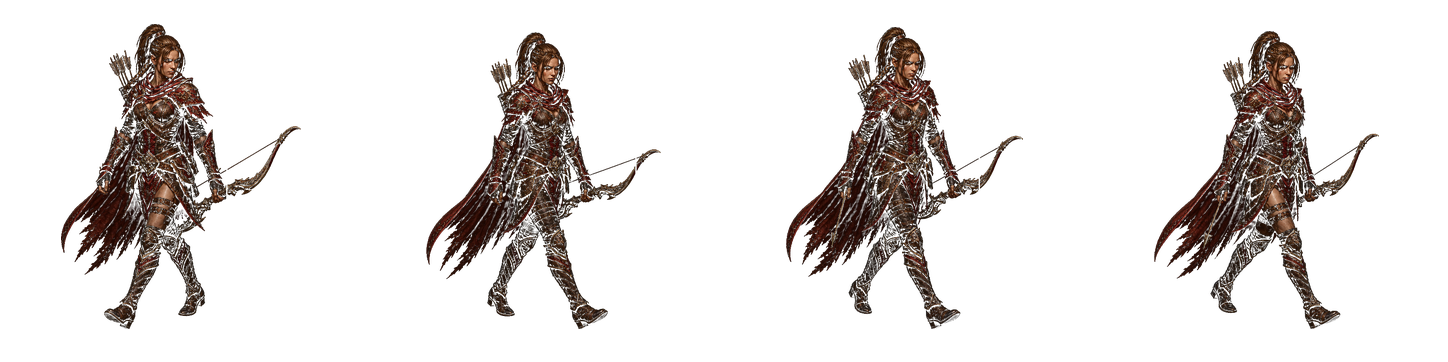
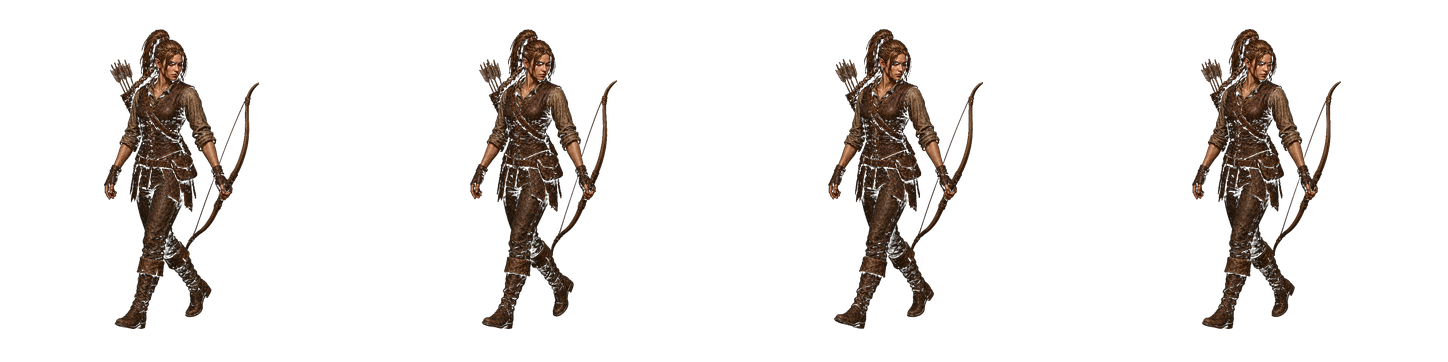
feat: 궁수 기본 외형을 승인된 스타터 가죽 튜닉 시트로 교체 (작업 159) (#124)
후드 망토 차림(작업 157)을 승인 시안 male/female_starter.png 기반 걷기·활 사격 4프레임으로 다시 만들어 6장을 재생성했다. /assets/* immutable 캐시라 궁수 시트 URL 6경로에 ?v=2를 붙이고, 캐시 버스터 누락을 잡는 테스트를 추가했다. heroBodyPx·전투·Save/DB/API 계약 무변경.

diff --git a/src/game/render.ts b/src/game/render.ts
@@ -21,8 +21,9 @@ import type { Gender } from './store';
 const paths = {
   floor: '/assets/wasteland-ground.png', terrainProps: '/assets/wasteland-props.png', male: '/assets/warrior_male_base.png',
   pilotMale: '/assets/pilot-25d/warrior_male_idle_v1.png', pilotFemale: '/assets/pilot-25d/warrior_female_idle_v1.png',
-  // 궁수 기본 시트(작업 157) — 같은 362px 셀 좌표계다. 갑옷·투구·활 오버레이는 이번 단계에 없다.
-  archerMale: '/assets/pilot-25d/archer_male_idle_v1.png', archerFemale: '/assets/pilot-25d/archer_female_idle_v1.png',
+  // 궁수 기본 시트(작업 157 → 159 스타터 가죽 튜닉) — 같은 362px 셀 좌표계다. 갑옷·투구·활 오버레이는 이번 단계에 없다.
+  // `/assets/*`는 immutable 캐시라 시트를 갈면 URL을 바꿔야 브라우저가 즉시 새 그림을 받는다(작업 159).
+  archerMale: '/assets/pilot-25d/archer_male_idle_v1.png?v=2', archerFemale: '/assets/pilot-25d/archer_female_idle_v1.png?v=2',
   // 투구 착용 시에만 쓰는 머리 없는 본체(작업 152) — 같은 셀 좌표계라 배율·앵커를 공유한다.
   pilotMaleHeadless: headlessBodyPaths.male.idle, pilotFemaleHeadless: headlessBodyPaths.female.idle,
   female: '/assets/warrior_female_base.png', armored: '/assets/warrior_armored_swordless.png',
@@ -53,8 +54,8 @@ const animationPaths = {
 const attackSheets = {
   pilotMaleAttack: '/assets/pilot-25d/warrior_male_attack_v1.png',
   pilotFemaleAttack: '/assets/pilot-25d/warrior_female_attack_v1.png',
-  archerMaleAttack: '/assets/pilot-25d/archer_male_attack_v1.png',
-  archerFemaleAttack: '/assets/pilot-25d/archer_female_attack_v1.png',
+  archerMaleAttack: '/assets/pilot-25d/archer_male_attack_v1.png?v=2',
+  archerFemaleAttack: '/assets/pilot-25d/archer_female_attack_v1.png?v=2',
   pilotMaleAttackHeadless: headlessBodyPaths.male.attack,
   pilotFemaleAttackHeadless: headlessBodyPaths.female.attack,
   femaleArmoredNoHelmAttack: '/assets/warrior_female_armored_attack.png?v=3',
@@ -67,8 +68,8 @@ const attackSheets = {
 const walkSheets = {
   pilotMaleWalk: '/assets/pilot-25d/warrior_male_walk_v1.png',
   pilotFemaleWalk: '/assets/pilot-25d/warrior_female_walk_v1.png',
-  archerMaleWalk: '/assets/pilot-25d/archer_male_walk_v1.png',
-  archerFemaleWalk: '/assets/pilot-25d/archer_female_walk_v1.png',
+  archerMaleWalk: '/assets/pilot-25d/archer_male_walk_v1.png?v=2',
+  archerFemaleWalk: '/assets/pilot-25d/archer_female_walk_v1.png?v=2',
   pilotMaleWalkHeadless: headlessBodyPaths.male.walk,
   pilotFemaleWalkHeadless: headlessBodyPaths.female.walk,
   maleBaseWalk: '/assets/walk8_male_base.png', femaleBaseWalk: '/assets/walk8_female_base.png',

diff --git a/src/ui/modals/charactersModal.ts b/src/ui/modals/charactersModal.ts
@@ -34,7 +34,7 @@ export function renderCharacters(ui: Interface, dialog: HTMLElement): void {
     });
     select.className = 'character-select';
     const image = document.createElement('img'); image.alt = '';
-    image.src = character ? (character.job === 'archer' ? `/assets/pilot-25d/archer_${character.gender === 'female' ? 'female' : 'male'}_idle_v1.png` : `/assets/warrior_${character.gender === 'female' ? 'female' : 'male'}_base.png`) : '';
+    image.src = character ? (character.job === 'archer' ? `/assets/pilot-25d/archer_${character.gender === 'female' ? 'female' : 'male'}_idle_v1.png?v=2` : `/assets/warrior_${character.gender === 'female' ? 'female' : 'male'}_base.png`) : '';
     const details = document.createElement('span'); details.textContent = character ? `${character.name} · ${character.job === 'archer' ? '궁수' : '전사'} · Lv.${character.level} · ${character.floor}층` : `슬롯 ${slot} · 새 캐릭터 만들기`;
     if (character) select.append(image);
     else { const plus = document.createElement('strong'); plus.textContent = '+'; select.append(plus); }

diff --git a/src/ui/equipmentPortrait.ts b/src/ui/equipmentPortrait.ts
@@ -16,7 +16,8 @@ import { WEAPON_GUARD, weaponIndexFor, weaponPartPath, weaponPose, swordlessBody
 /** 전사 시안은 장착 조합에 맞춘 필드와 같은 전신 그림을 쓴다(작업 155: 갑옷 티어별 시트). */
 export function equipmentFallbackPortrait(save: Save): string {
   // 궁수는 이번 단계에서 기본 시트만 쓴다 — 갑옷·투구·활 외형은 추후 별도 시안(작업 157).
-  if (isArcher(save)) return `/assets/pilot-25d/archer_${save.gender}_idle_v1.png`;
+  // 작업 159: 시트를 갈면서 `/assets/*` immutable 캐시를 피하려고 URL에 `?v=2`를 붙인다(필드 render.ts와 같은 경로).
+  if (isArcher(save)) return `/assets/pilot-25d/archer_${save.gender}_idle_v1.png?v=2`;
   // 투구를 쓰면 필드와 같은 머리 없는 본체 위에 투구 파츠를 얹는다(작업 152).
   const headless = !!save.equipment.helmet;
   const armor = armorIndexFor(save);

diff --git a/scripts/preview-archer-field.py b/scripts/preview-archer-field.py
@@ -7,7 +7,7 @@
     - 스켈레톤 = 화면 높이 × .095 (drawEntities)
     - 화살은 `render/vfx.ts` drawArrow 와 같은 진행도 보간
 
-출력: `downloads/djrpg_archer_ingame_v1.png`
+출력: `downloads/djrpg_archer_starter_ingame_v2.png` (작업 159 스타터 가죽 튜닉 시트)
 """
 from pathlib import Path
 
@@ -15,9 +15,11 @@ from PIL import Image, ImageDraw, ImageFont
 
 ROOT = Path(__file__).resolve().parent.parent
 ASSETS = ROOT / 'public/assets'
-OUTPUT = Path('/workspace/downloads/djrpg_archer_ingame_v1.png')
+OUTPUT = Path('/workspace/downloads/djrpg_archer_starter_ingame_v2.png')
 SCREEN = (390, 844)
 BODY_FRACTION = .0935
+# 게임과 같은 시트별 본체 높이(`render/heroScale.ts` `heroBodyPx`)로 배율을 잡는다.
+BODY_PX = {('male', 'walk'): 300, ('male', 'attack'): 268, ('female', 'walk'): 300, ('female', 'attack'): 270}
 
 
 def load(path: Path) -> Image.Image:
@@ -64,12 +66,13 @@ def draw_hp(draw: ImageDraw.ImageDraw, x: float, y: float, width: int, ratio: fl
     draw.rectangle([x - width / 2, y, x - width / 2 + width * max(0, ratio), y + 3], fill=(213, 59, 58, 255))
 
 
-def scene(shooting: bool, arrow_progress: float, name: str) -> Image.Image:
+def scene(shooting: bool, arrow_progress: float, name: str, gender: str = 'male') -> Image.Image:
     background = load(ASSETS / 'wasteland-ground.png')
     canvas = field(background)
     draw = ImageDraw.Draw(canvas, 'RGBA')
     height = SCREEN[1]
-    scale = height * BODY_FRACTION / 337
+    motion = 'attack' if shooting else 'walk'
+    scale = height * BODY_FRACTION / BODY_PX[(gender, motion)]
 
     # 적 두 마리 — 궁수 앞쪽에 몰려 온다.
     skeleton = load(ASSETS / 'skeleton_warrior.png')
@@ -80,9 +83,9 @@ def scene(shooting: bool, arrow_progress: float, name: str) -> Image.Image:
         draw.ellipse([px - 19, py - 7, px + 19, py + 7], fill=(0, 0, 0, 110))
         draw_hp(draw, px, py - height * .095 - 7, 26, ratio, False)
 
-    idle = load(ASSETS / 'pilot-25d/archer_male_idle_v1.png')
-    walk = load(ASSETS / 'pilot-25d/archer_male_walk_v1.png')
-    attack = load(ASSETS / 'pilot-25d/archer_male_attack_v1.png')
+    idle = load(ASSETS / f'pilot-25d/archer_{gender}_idle_v1.png')
+    walk = load(ASSETS / f'pilot-25d/archer_{gender}_walk_v1.png')
+    attack = load(ASSETS / f'pilot-25d/archer_{gender}_attack_v1.png')
     hero = attack if shooting else walk
     hero_frame = frame(hero, 1) if shooting else frame(walk, 0)
     hx, hy = project(0, 0)
@@ -153,12 +156,13 @@ def font(size: int):
 
 if __name__ == '__main__':
     panels = [
-        scene(False, 0, '1. BASE SHEET ONLY: NO ARMOR / HELMET / BOW OVERLAY'),
-        scene(True, .42, '2. BASIC ATTACK: ARROW IN FLIGHT'),
-        scene(True, .92, '3. ARROW RAIN MARKER + ARROW IMPACT'),
+        scene(False, 0, '1. MALE STARTER LEATHER TUNIC: WALK', 'male'),
+        scene(True, .92, '2. MALE : BOW SHOT', 'male'),
+        scene(False, 0, '3. FEMALE STARTER LEATHER TUNIC: WALK', 'female'),
+        scene(True, .92, '4. FEMALE : BOW SHOT', 'female'),
     ]
     gap = 14
-    result = Image.new('RGBA', (SCREEN[0] * 3 + gap * 4, SCREEN[1] + gap * 2), (18, 15, 17, 255))
+    result = Image.new('RGBA', (SCREEN[0] * 4 + gap * 5, SCREEN[1] + gap * 2), (18, 15, 17, 255))
     for index, panel in enumerate(panels):
         result.alpha_composite(panel, (gap + index * (SCREEN[0] + gap), gap))
     result.convert('RGB').save(OUTPUT, quality=92)

diff --git a/scripts/build-archer-sheets.py b/scripts/build-archer-sheets.py
@@ -2,9 +2,12 @@
 """궁수 기본 시트 6장을 승인된 원본 그림에서 만든다.
 
 입력(워크스페이스 `downloads/archer_preview/`):
-    male_1.png / female_1.png            서기 1장
-    male_walk.png / female_walk.png      걷기 4프레임 가로 스트립
-    male_attack.png / female_attack.png  활 사격 4프레임 가로 스트립
+    male_starter.png / female_starter.png            서기 1장 (승인된 스타터 가죽 튜닉 시안)
+    male_starter_walk.png / female_starter_walk.png      걷기 4프레임 가로 스트립
+    male_starter_attack.png / female_starter_attack.png  활 사격 4프레임 가로 스트립
+
+[작업 159] 스타터 가죽 튜닉 시트 — 승인 원본에서 `images --edit`로 만든 걷기·공격 스트립을 쓴다.
+(작업 157의 옛 입력 `{}_1.png`·`{}_walk.png`·`{}_attack.png`는 후드 망토 차림이라 쓰지 않는다.)
 
 출력(`public/assets/pilot-25d/`):
     archer_{male,female}_{idle,walk,attack}_v1.png
@@ -30,9 +33,9 @@ OUTPUT = ROOT / 'public/assets/pilot-25d'
 CELL = 362
 CENTER_X = 181
 SPEC = {
-    'idle': {'file': '{}_1.png', 'cells': 1, 'height': 337, 'foot': 353},
-    'walk': {'file': '{}_walk.png', 'cells': 4, 'height': 300, 'foot': 329},
-    'attack': {'file': '{}_attack.png', 'cells': 4, 'height': 270, 'foot': 348},
+    'idle': {'file': '{}_starter.png', 'cells': 1, 'height': 337, 'foot': 353},
+    'walk': {'file': '{}_starter_walk.png', 'cells': 4, 'height': 300, 'foot': 329},
+    'attack': {'file': '{}_starter_attack.png', 'cells': 4, 'height': 270, 'foot': 348},
 }
 # 검정 배경 키잉: 이 값 아래는 투명, 위로 갈수록 불투명(가장자리 계단 완화).
 ALPHA_LOW, ALPHA_HIGH = 5, 26

diff --git a/docs/TASK.md b/docs/TASK.md
@@ -10,6 +10,7 @@
 | [작업 146] Turso 공용 DB에서 DJRPG 전용 DB 이관 | songduckjin | `codex/146-turso-db-isolation` | `scripts/migrate-turso-db.mjs`, `tests/migrate-turso-db.test.mjs`, `server/{database,market-connection,world-boss,world-boss-schema}.mjs`, `tests/functions-adapter.test.mjs`, `docs/TURSO_DB_GUIDE.md`, 운영 DB·Pages 비밀 변수 | 높음 | [-] |
 | [작업 155] 남녀 갑옷 10종 서기·걷기·공격 + headless 시트 제작·적용 | songduckjin | `feat/155-armor-10-idle-walk-attack` | `render/armors.ts`(신규), `render/entities.ts` `drawHero`, `render.ts`(티어별 동적 로드·캐시), `ui/equipmentPortrait.ts`, `scripts/verify-item-art.mjs`, `tests/armor-render.test.mjs`(신규), `public/assets/pilot-25d/armors/**` | 보통 | [x] |
 | [작업 158] 궁수 직업 추가 — 기본 시트·활 10종·원거리 전투·스킬 8+3 | songduckjin | `feat/158-archer-job` | `game/skills.ts`(`Job`·궁수 스킬/패시브), `game/items.ts`(`bowBases`·`rollItem(job)`), `game/store.ts`(`job`), `game/world.ts`(원거리 사격·화살), `game/render/{entities,vfx}.ts`·`render.ts`(궁수 시트·화살 VFX), `ui/{login,skillArtwork,equipmentPortrait,hud}.ts`·`ui/modals/{charactersModal,skillModal,accountModal}.ts`, `server/endpoints/account.mjs`, `public/assets/pilot-25d/archer_*`·`item-art/bow_*`·`icons/archer-*` | 보통 | [x] |
+| [작업 159] 궁수 스타터 가죽 튜닉 시트 교체·재배포 | songduckjin | `feat/159-archer-starter-leather-sheets` | `public/assets/pilot-25d/archer_{male,female}_{idle,walk,attack}_v1.png`(교체), `scripts/build-archer-sheets.py`(스타터 입력), `scripts/preview-archer-field.py`(남녀 4패널), `src/game/render.ts`·`src/ui/equipmentPortrait.ts`·`src/ui/modals/charactersModal.ts`(`?v=2`), `tests/archer.test.mjs` | 낮음 | [x] |
 | [작업 156] 대검 10종 외형 전체 적용(남녀 서기·걷기·공격) | songduckjin | `feat/156-weapon-10-parts` | `render/weapons.ts`(신규), `render/entities.ts` `syncWeaponPart`·`drawHero`, `render.ts`(파츠·noweapon 동적 로드·티어 캐시), `render/armors.ts`(`swordless`), `ui/equipmentPortrait.ts`, `scripts/build-weapon-parts.py`(신규), `scripts/verify-item-art.mjs`, `tests/weapon-render.test.mjs`(신규), `public/assets/pilot-25d/weapons/**`·`noweapon/**` | 보통 | [x] |
 | [작업 157] 스킬 1·2 이펙트 교체(은빛 검기·황금 충격파 / 푸른 청룡 느린 선회) | songduckjin | `feat/157-skill-1-2-vfx` | `render/vfx.ts`(`slash2` 스프라이트 2장·`drawDragon` 회전·지면광), `render.ts`(Art `fxSlash2`·`fxSlash2Ground` 등록·`?v=2`), `public/assets/fx_slash2.png`·`fx_slash2_ground.png`(신규)·`fx_dragon_head.png`·`fx_dragon_body.png`(교체), `tests/hero-weapon-render.test.mjs`, `docs/QUICK_PATCH.md`·`CODE_MAP.md` | 보통 | [x] |
 | 184 던전 드롭·클리어 흡수 연출 | fks3997 | preview/gravel-background-fks3997 | `ui/dungeonBattle.ts`(드롭 50%·필드 확률)·`ui/dungeonField.ts`(DOM 낙하/흡수)·`styles/dungeon.css`·`tests/dungeon-battle.test.mjs` | 낮음 | [x] |
@@ -22,6 +23,7 @@
 | [작업 191] 슬롯별 방치 시작·자동등반 사망 중단 | Codex | `codex/191-slot-idle-auto-climb` | `src/game/world.ts`, `src/ui/modals/charactersModal.ts`, `src/styles/modals.css`, `tests/world-movement.test.mjs`, `tests/modal-ui.test.mjs`, `docs/CODE_MAP.md`, `docs/QUICK_PATCH.md` | 낮음 | [-] |
 | [작업 192] 다이아 상점·구매 슬롯·캐릭터 삭제·생성 로딩 | Codex | `codex/192-shop` | `server/database.mjs`, `server/endpoints/{account,shop}.mjs`, `functions/api/shop.js`, `src/ui/{interface,hud}.ts`, `src/ui/modals/{shopModal,charactersModal}.ts`, `src/styles/{hud,modals}.css`, `tests/{shop,characters,modal-ui,migrate-turso-db}.test.mjs`, `docs/{CODE_MAP,QUICK_PATCH,TASK_192}.md` | 높음 | [-] |
 
+> 2026-11-20: `[작업 159]` — 궁수 기본 외형을 후드 망토 차림(작업 157)에서 사용자가 승인한 **스타터 가죽 튜닉**으로 바꿨다. 승인 원본 `downloads/archer_preview/{male,female}_starter.png`(민소매 가죽 조끼 + 크림색 셔츠, 후드·견갑·망토 없음)에서 `images --edit`로 걷기·활 사격 4프레임 가로 스트립을 만들고(같은 얼굴·같은 옷·같은 바닥선) `scripts/build-archer-sheets.py` 입력을 스타터 파일로 바꿔 6장을 재생성했다(서기 `362×362`, 걷기·공격 `1448×362` 4셀, 검정 배경 키잉·발끝 정렬, 셀 높이 남 337 / 301·299·300·300 / 239·275·270·270, 여 337 / 300×4 / 239·277·279·263). `/assets/*`가 `immutable` 1년 캐시라 `render.ts`(6경로)·`equipmentPortrait.ts`·`charactersModal.ts`의 궁수 시트 URL에 `?v=2`를 붙였고, 그 규칙을 지키는 테스트 1건(캐시 버스터 누락 감시)을 `tests/archer.test.mjs`에 넣었다. 시트만 교체했고 `heroBodyPx`·전투 수치·Save/DB/API 계약은 무변경이다. 검증: `tsc --noEmit`, `tests/archer.test.mjs` **14/14**, 전체 488건 중 **486 통과**(`costume-field-render` 2건은 `origin/main` `86ac44e` 워크트리에서도 동일하게 실패하는 기존 실패), `verify-item-art` 6장 확인, `npm run build`, 배포 번들에 6경로 `?v=2` 확인. 검수 이미지 `downloads/djrpg_archer_starter_ingame_v2.png`(남녀 걷기·사격 4패널).
 > 2026-11-20: `[작업 158]` — 두 번째 직업 **궁수(`archer`)**를 전사 기준으로 추가하고 PR 머지·운영 배포까지 완료했다. ① **세이브 호환**: `Save.job`(기본 `'warrior'`)을 추가해 직업이 없는 기존 세이브·DB 레코드가 그대로 전사로 읽히고, 계정·캐릭터 생성(로그인·`새 캐릭터` 모달)에서 **직업(위 줄) → 성별(아래 줄)** 순으로 고른다. 서버 `initialSave`·`characters`·`reset`이 `job`을 보존한다. ② **에셋**: 승인 원본(`downloads/archer_preview/*`)에서 전사와 같은 셀 좌표계(서기 362×362, 걷기·공격 1448×362)의 `archer_{male,female}_{idle,walk,attack}_v1.png` 6장을 만들고(빌더 `scripts/build-archer-sheets.py`, 검정 배경 알파 키잉 + 망토가 닿은 프레임 분리), 활 10종 아이콘(`item-art/bow_0|5.png` 870×290)과 궁수 스킬·패시브 아이콘 시트(`icons/archer-skills.png` 4×2, `archer-passive-skills.png` 3×1)를 생성했다. ③ **전투**: 궁수는 `archerAttackRange`(250)까지 화살을 쏘고 `archerStopRange`(118) 밖에서만 다가가며, 화살은 도착 시점에 판정하고 살아 있는 적을 따라간다(`Effect.kind='shot'`). ④ **장비·스킬**: 활 10종(`사냥꾼의 활` ~ `패왕의 신궁`)은 전사 대검 드랍·코덱스·대검 파츠를 건드리지 않고 직업별 목록으로 분리했고, 액티브 8종(더블 샷 ~ 애로우 레인)·패시브 3종(궁술 숙련·신속의 발걸음·매의 눈)을 스킬북·퀵슬롯·쿨타임 구조 그대로 붙였다. ⑤ **외형 규칙**: 궁수는 이번 단계에서 **기본 시트만** 그리고 전사용 갑옷·투구·대검 파츠를 절대 얹지 않는다(능력치는 정상 적용) — 추후 궁수 전용 갑옷·후드·활 외형을 붙이기 쉽도록 `entities.ts`/`equipmentPortrait.ts` 분기를 분리했다. 검증: 타입 검사, 전체 테스트 487건 중 485 통과(`costume-field-render` 2건은 종전부터 같은 실패), 아트 검증(궁수 시트 6·활 아이콘 2·스킬 아이콘 2 추가), 빌드, `git diff --check`. 검수 이미지 `downloads/djrpg_archer_ingame_v1.png`(합성 — 실기 브라우저 확인은 미실시). [PR #120](https://github.com/songduckjin/DJRPG/pull/120) 스쿼시 병합 `7dd9d67643e2`, 운영 `version.json` `7dd9d67643e2`(`builtAt 2026-11-20T01:30:06Z`)·**새 에셋 10장 전부 HTTP 200**(원격 sha256=로컬)·배포 번들(`index-B7aBXvAW.js`)에 궁수 경로·스킬 포함 확인.
 > 2026-11-20: `[작업 157]` — 사용자가 고른 확정 시안대로 **1번 휘두르기**는 코드 선 2줄을 지우고 은빛 검기(`fx_slash2.png`)와 황금빛 지면 충격파·파편(`fx_slash2_ground.png`) 두 장의 검정 배경 add 스프라이트로 바꿨다(검기만 스윙 방향으로 회전, 지면파는 눕힌 채 전방 34%로 번짐, 등급은 폭 +8px·12% 틴트만). **2번 드래곤 트위스터**는 용 머리·비늘 몸통을 짙은 파란 청룡으로 교체하고 회전을 한 바퀴 1.1초 → **2.4초**로 늦췄으며 발밑에 파란 지면광·링을 남긴다. `/assets/*`가 immutable 캐시라 청룡 두 장은 `?v=2` 경로를 쓴다. 스킬 수치·판정·Save/DB/API 무변경. 검증: 타입 검사, `hero-weapon-render` 6/6, 전체 474건 중 472 통과(`costume-field-render` 2건은 종전 실패), 빌드·아트 검증·diff. [PR #118](https://github.com/songduckjin/DJRPG/pull/118) 스쿼시 병합 `eef4e9d5251d`, 운영 `version.json` `eef4e9d5251d`(`builtAt 2026-11-20T01:17:18Z`)·새 에셋 4장 HTTP 200(원격 sha256=로컬, 머리 픽셀 평균 RGB 35/105/189 파랑)·배포 번들에 경로와 `Math.PI*2/2.4` 확인. 검수 이미지 `downloads/djrpg_skill_1_slash2_ingame_v3.png`·`downloads/djrpg_skill_2_spin_blue_ingame_v3.png`. 브라우저 실기 미실행.
 > 2026-11-20: `[작업 156]` — 사용자가 승인한 대검 9종 시안을 **본체와 분리된 파츠**로 떠서 `baseItems.weapon` 1~9번을 남녀 서기·걷기 4프레임·공격 4프레임에 적용했다. ① 본체·갑옷 시트에는 0번 기본 두손검이 그려져 있어, **기본 검만 지운 같은 규격 시트**(`public/assets/pilot-25d/noweapon/**` 132장 5.9MB, 256색 팔레트 PNG)를 만들고 그 위에 파츠를 얹는다(검을 지운 자리에 검이 가리고 있던 다리·허리는 실루엣 닫기+인페인트로 메운다). ② 검은 **강체 파츠 9장**(`public/assets/pilot-25d/weapons/weapon_{1..9}_v1.png`, 362px 셀, 장당 ≤31KB)과 자세 표(`WEAPON_POSES` 남녀 × 9자세 = 가드 좌표·회전각)로 그린다 — 회전축이 손잡이(가드) 점이라 스윙 중에도 칼이 손에서 떨어지거나 길이가 줄지 않는다. ③ 파츠는 승인 시안(`tools/weapon-src/male_weapon_{1..9}.png`)에서 얼굴 NCC 정합 + 기준 시트와의 색차/실루엣 밖 영역으로 떠서 손은 파츠에 섞이지 않고 본체 손이 새 검을 쥔다. ④ 로딩은 부팅 프리로드 없이 **장착 티어 파츠 1장 + 본체 시트 6장**만 받고 최근 3티어를 유지한다(로딩 전에는 기본 검을 가진 기준 시트로 폴백). ⑤ 장비창 초상화도 같은 파츠·같은 시트를 쓴다. `store.ts`·`server/**`·`world.ts`·`baseItems` 순서·0번 기본 검 무변경. 검증: 타입 검사, 전체 테스트 473건 중 471 통과(`costume-field-render` 2건은 종전부터 같은 실패), 아트 검증(noweapon 132장·파츠 9장 추가), 빌드, `git diff --check`. 검수 이미지 `downloads/djrpg_weapon_10_idle_v1.png`·`downloads/djrpg_weapon_walk_attack_v1.png`·`downloads/djrpg_weapon_ingame_scale_v1.png`. [PR #115](https://github.com/songduckjin/DJRPG/pull/115) 스쿼시 병합 `88dd1b95ea7b`, 운영 `version.json` `88dd1b95ea7b`(`builtAt 2026-11-20T00:11:48Z`)·**새 에셋 141장(파츠 9 + noweapon 132) 전부 HTTP 200**·배포 번들(`index-NYhj-_cK.js`)에 파츠·noweapon 경로 확인. 모바일 실기 화면은 미확인(게스트 계정 미생성). 자세한 기록은 `docs/WORKLOG.md`.

diff --git a/docs/QUICK_PATCH.md b/docs/QUICK_PATCH.md
@@ -40,6 +40,7 @@
 | 스킬 수치 / 쿨타임 / 스킬북 드랍 | `src/game/skills.ts` `skills`·`passives` 표(`cooldown`·`power`·`range`·`level`), `skillDuration`·`skillDamageScale`·`skillUpgradeCost`, 스킬북 드랍은 `src/game/items.ts` `skillBookDropChance`·`rollSkillBook` | `loadout.ts` 3칸 규칙, `world.ts` `cooldowns` 키·`action` 차단 순서, `database.mjs` `itemValid`의 스킬 ID 목록 | `node --test tests/skill-progression.test.mjs tests/loadout.test.mjs tests/skill-feedback.test.mjs` |
 | 무기·방어구·장신구·등급 추가/수치 조정 | `src/game/items.ts` `baseItems`·`rarityScales`·`rarityTiers`·`rarityPrefixes`·`rollItem`·`totalStats`·`salvageGold/Stones`, 아트 `public/assets/item-art/{slot}_{index}.png` | 기존 `baseItems` 항목 **순서**(아트 프레임 = 인덱스), `database.mjs` `identity`·`itemValid`의 슬롯·등급 목록(아이템 소유권 계약) | `node --test tests/inventory.test.mjs tests/codex.test.mjs tests/equipped-detail.test.mjs` + `node scripts/verify-item-art.mjs` |
 | 착용 갑옷 10종 외형(서기·걷기·공격·headless, 작업 155) | `src/game/render/armors.ts`(경로·`armorIndexFor`·`armorFrameIndex`), `src/game/render/entities.ts` `drawHero`(티어 시트 선택·headless 분기), `src/game/render.ts`(`armorFrame`·`prefetchArmor`·`armorTierCacheLimit`), `src/ui/equipmentPortrait.ts`(초상화 경로·키), 에셋 `public/assets/pilot-25d/armors/**` | `store.ts`·`server/**`·`world.ts` 계약, `baseItems.armor` 순서(= 시트 인덱스), 기준 pilot 시트 6장·`headless/` 6장·투구 파츠, **시트를 362px 셀 규격 밖에서 손편집**(정합은 SIFT+실루엣 IoU로 다시 뽑는다)·부팅 프리로드에 갑옷 120장 넣기 | `node --test tests/armor-render.test.mjs tests/helmet-head-render.test.mjs tests/equipped-detail.test.mjs` + `node scripts/verify-item-art.mjs` |
+| 궁수 기본 외형 시트 교체(작업 159) | `scripts/build-archer-sheets.py`(입력 `{}_starter{,_walk,_attack}.png`), `public/assets/pilot-25d/archer_{male,female}_{idle,walk,attack}_v1.png`, `src/game/render.ts`의 `archer*` 6경로, `src/ui/equipmentPortrait.ts`, `src/ui/modals/charactersModal.ts`, `tests/archer.test.mjs` | `store.ts`·`server/**`·`world.ts`(전투·세이브 계약), 궁수 장비 오버레이 금지 규칙, **시트를 갈고 `?v=` 숫자를 안 올리기**(`/assets/*` immutable — 캐시에 옛 그림이 남는다), 허리·발끝 정렬 밖 손편집 | `node --test tests/archer.test.mjs` + `node scripts/verify-item-art.mjs` |
 | AI 시안 전사 외형 전체 교체(작업 149) | `src/game/render.ts`(pilot idle/walk/attack 에셋), `src/game/render/entities.ts`(장비 오버레이 생략), `src/game/render/heroScale.ts`, `src/ui/equipmentPortrait.ts`, `public/assets/pilot-25d/**` | 남녀 그림을 함께 갱신; field/장비창 둘 다 같은 idle 시트; 기존 장착 데이터·능력치 유지하지만 화면 장비는 고정 갑옷·대검; 파일명 `_vN` 새 버전 사용 | `node --test tests/hero-art.test.mjs tests/hero-weapon-render.test.mjs tests/equipped-detail.test.mjs` |
 | 캐릭터·몬스터 스프라이트 / 이미지 교체 (`?v=N` 포함) | `src/game/appearance.ts`(`heroAppearance`), `src/game/render.ts`(`paths`·`animationPaths`·`attackSheets`·`walkSheets`), `src/game/render/heroScale.ts`(`heroBodyPx` 실측 몸통 높이), `public/assets/*.png` | `store.ts` `Gender`·세이브 형식, 남/여 × 투구 × 갑옷 분기 삭제. **같은 경로 PNG를 바꾸면 `?v=` 숫자를 +1**( `/assets/*`는 `immutable`) | `node --test tests/appearance.test.mjs tests/hero-motion.test.mjs tests/hero-art.test.mjs tests/hero-weapon-render.test.mjs` |
 | 스킬 이펙트 그림(1번 은빛 검기·2번 푸른 청룡) | `game/render/vfx.ts`(`slash2` 스프라이트 2장·`slashTint`·`drawDragon` 회전/지면광), `game/render.ts` `paths`의 `fx*` 키, `public/assets/fx_slash2*.png`·`fx_dragon_*.png` | 코드 `effects.arc()` 선으로 되돌리기(1번은 검정 배경 add 스프라이트), 청룡 회전을 다시 1.1초/바퀴로 올리기, `skills.ts` 수치·사거리·`world.ts` 판정 변경, 지면 충격파를 스윙과 함께 회전시키기(지면은 눕힌 채 회전 0) | `node --test tests/hero-weapon-render.test.mjs` |

diff --git a/docs/TASK_songduckjin.md b/docs/TASK_songduckjin.md
@@ -7,6 +7,15 @@
 
 ## 진행 중 작업
 
+### [x] [작업 159] 궁수 스타터 가죽 튜닉 시트 교체·재배포
+- **담당자**: `songduckjin` · **브랜치**: `feat/159-archer-starter-leather-sheets` · **위험 등급**: 낮음 · **상태**: `[x]`
+- **배경**: 작업 157의 궁수 기본 시트는 후드 망토 + 견갑 차림이었다. 사용자가 승인한 스타터 시안(`downloads/archer_preview/{male,female}_starter.png`, 민소매 가죽 조끼 + 크림 셔츠, 후드·견갑·망토 없음)으로 기본 외형을 교체한다.
+- **제작**: `images --edit`로 승인 원본에서 걷기·활 사격 4프레임 가로 스트립(`{male,female}_starter_{walk,attack}.png`)을 만들고, `scripts/build-archer-sheets.py` 입력을 `{}_starter{,_walk,_attack}.png`로 바꿔 `public/assets/pilot-25d/archer_{male,female}_{idle,walk,attack}_v1.png` 6장을 재생성(서기 `362×362`, 걷기·공격 `1448×362` 4셀, 256색 PNG, 검정 배경 키잉·발끝 정렬).
+- **캐시 무효화**: `/assets/*`가 `immutable`이라 `src/game/render.ts`(6경로)·`src/ui/equipmentPortrait.ts`·`src/ui/modals/charactersModal.ts`의 궁수 시트 URL에 `?v=2`. `tests/archer.test.mjs`는 기대값을 새 URL로 고치고, 궁수 시트 참조에 버전 쿼리가 빠지면 실패하는 감시 테스트를 추가했다.
+- **불변**: `heroBodyPx`(남녀 337/300/268·270)·전투 수치·스킬·Save/DB/API 계약, 장비 오버레이 미적용 규칙(작업 157) 그대로.
+- **검증**: `tsc --noEmit`, `tests/archer.test.mjs` 14/14, 전체 488건 중 486 통과(`costume-field-render` 2건은 `origin/main` `86ac44e` 워크트리에서도 동일 실패), `verify-item-art`(궁수 시트 6장), `npm run build`, 배포 번들 6경로 `?v=2` 확인.
+- **검수 이미지**: `downloads/djrpg_archer_starter_ingame_v2.png` — `scripts/preview-archer-field.py`를 남녀 4패널(걷기·사격)로 확장하고 `heroBodyPx`로 배율을 맞춰 합성했다. 브라우저 실기 확인은 미실시(사용자 몫).
+
 ### [x] [작업 150] 평타 1마리 제한·평타 ×1.6·걷기/공격 몸 크기 보정
 - **담당자**: `songduckjin` · **브랜치**: `fix/150-basic-attack-single-target` · **위험 등급**: 중 · **상태**: `[x]` 완료(실기 확인은 사용자 몫)
 - **제보(2026-11-19 실기)**: ① 평타가 반경 90px·부채꼴 안의 모든 적을 동시에 때림 ② 대검을 휘두르거나 걸을 때 캐릭터가 작아짐. 후속 지시: 한 마리만 때리는 만큼 “한방한방이 쌔야 돼”.

diff --git a/docs/WORKLOG.md b/docs/WORKLOG.md
@@ -901,3 +901,9 @@
 - 2번: 청룡머리·비늘몸통 PNG교체(짙은파랑), 한바퀴1.1→2.4초, 발밑파란지면광·링, 몸통방사1.25배. `/assets/*`immutable이라 dragon2장은`?v=2`.
 - tsc/부분6(검기·청룡계약 새로)/전체474중472(costume-field-render2건은종전실패)/build/아트/diff통과. PR#118 스쿼시`eef4e9d5251d`, 운영version.json`eef4e9d5251d`(builtAt2026-11-20T01:17:18Z)·새에셋4장200(원격sha=로컬, 머리평균RGB 35/105/189 파랑)·번들`index-QOXkJ41J.js`에 경로·`Math.PI*2/2.4`확인. 브라우저실기미실행.
 
+## 2026-11-20 songduckjin — 작업159 궁수 스타터 가죽 튜닉 시트 교체
+- 승인 원본(`downloads/archer_preview/{male,female}_starter.png`)에서 `images --edit`로 걷기·활사격 4프레임 스트립 생성. 후드·망토·견갑 없이 민소매 가죽 조끼+크림 셔츠, 퀴버·나무활 유지, 4프레임 얼굴·옷·바닥선 동일 확인.
+- `scripts/build-archer-sheets.py` 입력을 `{}_starter{,_walk,_attack}.png`로 교체 후 6장 재생성(362×362 / 1448×362, 검정 키잉·발끝정렬). 셀 높이 남 337/301·299·300·300/239·275·270·270, 여 337/300×4/239·277·279·263. 옛 후드 입력은 주석으로만 남김.
+- `/assets/*` immutable이라 `render.ts` 6경로·`equipmentPortrait.ts`·`charactersModal.ts`의 궁수 시트 URL에 `?v=2`. `tests/archer.test.mjs`에 캐시 버스터 누락 감시 1건 추가(궁수 시트 참조 줄은 전부 `?v=` 필요).
+- 시트만 교체: `heroBodyPx`·전투 수치·Save/DB/API 무변경. 장비 오버레이는 종전대로 궁수에게 그리지 않는다.
+- tsc/archer 14·전체488중486(costume-field-render2건은 `86ac44e` 워크트리 동일실패)/아트6장/build/diff통과. 번들에 6경로 `?v=2` 확인. 검수 `downloads/djrpg_archer_starter_ingame_v2.png`(남녀 걷기·사격 4패널). 브라우저 실기 미실행.
